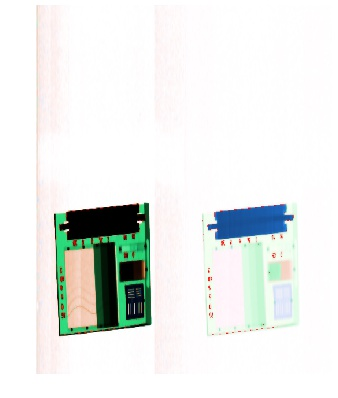
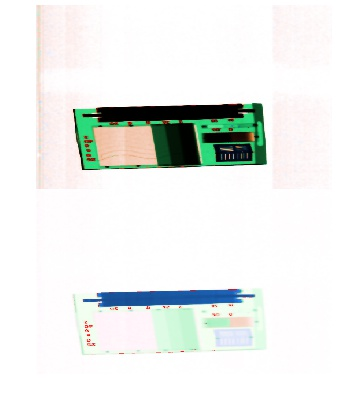
Fix: zeff

diff --git a/templates/index.html b/templates/index.html
@@ -130,46 +130,50 @@
     <script>
 
       var imagesize = $('#img').width();
+      var x1 = 0, x2 = 0, y1 = 0, y2 = 0;
 
-      $('#zoomout').on('click', function(){
-          imagesize = imagesize - 5;
-          $('#img').width(imagesize);
+      $("#img").imgAreaSelect({
+        handles: true,
+        onSelectEnd: function(img, selection) {
+          x1 = selection.x1;
+          x2 = selection.x2;
+          y1 = selection.y1;
+          y2 = selection.y2;
+        }
       });
 
-      $('#zoomin').on('click', function(){
-          imagesize = imagesize + 5;
-          $('#img').width(imagesize);
+      var $ias = $('#img').imgAreaSelect({
+          instance: true
       });
-
-      var select = false;
 
       $("#zeff").click(function() {
-          if(!select) {
-              var filename = $("#img").attr("src");
+          var filename = $("#img").attr("src");
 
-              console.log(filename);
-
-              $('#img').imgAreaSelect({
-                  handles: true,
-                  onSelectEnd: function(img, selection) {
-                    $.ajax({
-                      url: "/zeff",
-                      type: "post",
-                      dataType: "json",
-                      data: {x1: selection.x1, x2: selection.x2, y1: selection.y1, y2: selection.y2, filename: filename},
-                      success: function(result) {
-                        alert(result.zeff);
-                      }
-                    });
-                  }
-              });
+          if(x1 == 0 && x2 == 0 && y1 == 0 && y2 == 0) {
+            window.swal({
+              title: "Error!",
+              text: "Select an area"
+            });
           } else {
-              $('#img').imgAreaSelect({
-                  remove: true
-              });
+            window.swal({
+              title: "Processing...",
+              text: "Please wait"
+            });
+            $.ajax({
+              url: "/zeff",
+              type: "post",
+              dataType: "json",
+              data: {x1: x1, x2: x2, y1: y1, y2: y2, filename: filename},
+              success: function(result) {
+                $ias.cancelSelection();
+                swal.close();
+                window.swal({
+                  title: "Result (zeff)",
+                  text: "Zeff = " + result.zeff
+                });
+              }
+            });
           }
-
-          select = !select;
       });
 
       $("#contrast").click(function() {
@@ -184,31 +188,6 @@
               $("#img").attr('src', result.img);
             }
           });
-      });
-
-      var toggle_gamma = false;
-
-      $("#gamma").click(function() {
-        if(!toggle_gamma)
-          $("#gamma-p").show();
-        else
-          $("#gamma-p").hide();
-        toggle_gamma = !toggle_gamma;
-      });
-
-      $("#gamma-correct").click(function() {
-        var filename = $("#img").attr('src');
-        var gamma = $("#gamma-value").val();
-
-        $.ajax({
-          url: "/gamma",
-          type: "post",
-          dataType: "json",
-          data: {filename: filename, gamma: gamma},
-          success: function(result) {
-            $("#img").attr('src', result.img);
-          }
-        });
       });
 
       $("#rgbtohsi").click(function() {

diff --git a/app.py b/app.py
@@ -157,8 +157,8 @@ def cc():
         global filename_global
         filename = filename_global
         global brns_processing
-        filename_img = "static/colorized/" + os.path.basename(filename).split(".")[0] + ".jpg"
         cc_img = brns_processing.genCCImg()
+        filename_img = "static/colorized/" + os.path.basename(filename).split(".")[0] + ".jpg"
         im_real = cv2.imread(filename_img)
         shape_tuple = (im_real.shape[0], im_real.shape[1])
         cc_img = cv2.resize(cc_img, shape_tuple)

diff --git a/brns_processing.py b/brns_processing.py
@@ -164,7 +164,8 @@ class BRNSProcessing:
         Hpc_img=self.pc_img
         self.imfused=imfused
         self.generateFColor()
-        return np.concatenate((Lpc_img,Hpc_img),axis=1)
+        return np.vstack((Lpc_img, Hpc_img))
+        # return np.concatenate((Lpc_img,Hpc_img),axis=1)
 
     def genHSIImg(self):
         R=self.pc_img[...,0]
